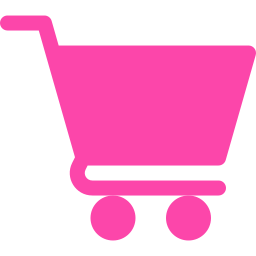
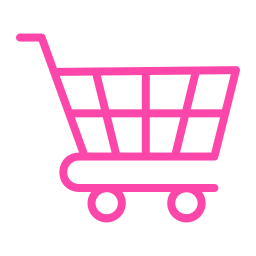
Create logic for basket zero component

diff --git a/src/MainPage/Main.js b/src/MainPage/Main.js
@@ -1,17 +1,19 @@
 import Module from "./Module/Module";
 import style from "./Main.module.css"
-import { useEffect, useState } from "react";
+import {useContext, useEffect, useState} from "react";
 import Header from "./Header/Header";
 import Slider from "./Slider/Slider";
 import Category from "./Category/Category";
 import Bestseller from "./Bestseller/Bestseller";
 import Footer from "./Footer/Footer";
+import {CustomContext} from "./Context/Context";
 
 function Main({props}) {
     const [isLoading, setIsLoading] = useState(true);
     const [records, setRecords] = useState([]);
     const [openModule, setOpenModule] = useState(true);
     const url='http://localhost:5000/data';
+    const {show,setShow}=useContext(CustomContext);
     useEffect(() => {
         fetch(url)
             .then(response => response.json())
@@ -24,10 +26,12 @@ function Main({props}) {
     if (isLoading) {
         return <p>Loading...</p>; // Показать индикатор загрузки
     }
+    if (setShow){
+        console.log("Do it")
+    }
     const data=records.favorites;
-    const dataBestseller=records.bestseller;
     return (
-        <div className={style.container}>
+        <div className={style.container} style={{position: setShow? 'fixed':'relative'}}>
                             {openModule && <Module open={openModule} setOpenModule={setOpenModule} />}
                             <Header props={data} />
                             <Slider />

diff --git a/src/MainPage/Header/Backets/BasketZero.module.css b/src/MainPage/Header/Backets/BasketZero.module.css
@@ -1,14 +1,18 @@
 .container{
+    -webkit-box-shadow: 8px 8px 44px 0px rgba(66, 68, 90, 1);
+    -moz-box-shadow: 8px 8px 44px 0px rgba(66, 68, 90, 1);
+    box-shadow: 8px 8px 36px 0px rgba(66, 68, 90, 1);
     display: flex;
     justify-content: center;
-    height: 28vh;
+    height: 30vh;
     position: fixed;
     z-index: 2;
-    right: 40%;
+    right: 35%;
     width: 28%;
     background-color: white;
     top: 40%;
-    padding: 40px 20px 20px 20px;
+    padding: 30px 20px 20px 20px;
+    border-radius: 10px;
 }
 .content{
     display: flex;
@@ -23,7 +27,20 @@
 .content__title{
     font-weight: bolder;
     font-size: 25px;
+    margin-bottom: 20px;
 }
 .icon{
-    height: 80px;
+    height: 90px;
+    margin-bottom: 10px;
+}
+.content__button{
+    cursor: pointer;
+    width: 110px;
+    height: 35px;
+    background-color:#EB1E27;
+    border: 1px solid white;
+    color: white;
+    font-size: 14px;
+    font-weight: bolder;
+    border-radius: 10px;
 }

diff --git a/src/MainPage/Header/Header.js b/src/MainPage/Header/Header.js
@@ -9,8 +9,7 @@ import {CustomContext} from "../Context/Context";
 import BasketsZero from "./Backets/BasketsZero";
 function Header(){
     const[menuActive, setMenuActive]=useState(false);
-    const[show,setShow]=useState(false);
-    const {basket}=useContext(CustomContext);
+    const {basket,show,setShow}=useContext(CustomContext);
     const navigate=useNavigate();
     return (<>
         <div className={style.container} >
@@ -70,10 +69,9 @@ function Header(){
                         </li>
                     </ul>
                 </menu>
+                <BasketsZero show={show} setShow={setShow}/>
             </div>
-            <BasketsZero show={show} setShow={setShow}/>
         </div>
-
         </>
     )
 }

diff --git a/src/MainPage/Header/Backets/BasketsZero.js b/src/MainPage/Header/Backets/BasketsZero.js
@@ -4,9 +4,10 @@ function BasketsZero({show,setShow}){
     return(
         <div style={{display: show? 'flex':'none'}} className={style.container}>
             <div className={style.content}>
+                <button onClick={()=>{setShow(false)}}>Close</button>
                 <div><img src={icon} alt="icon" className={style.icon}/></div>
                 <div className={style.content__title}>Basket Empty</div>
-                <button>shopping</button>
+                <button className={style.content__button}>Shop</button>
             </div>
         </div>
     )

diff --git a/src/MainPage/Context/Context.jsx b/src/MainPage/Context/Context.jsx
@@ -4,8 +4,10 @@ export const CustomContext=createContext();
 
 function Context(props){
     const [basket,setBasket]=useState([]);
+    const[show,setShow]=useState(false);
     const value={
-        basket
+        basket,
+        show,setShow
     }
     return <CustomContext.Provider value={value }>
         {props.children}
